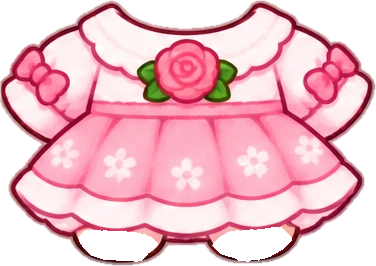
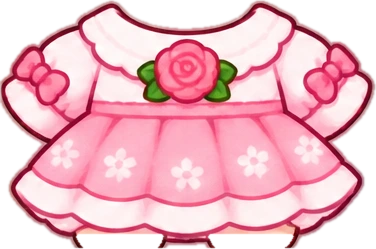
의상 발 제거, 초코칩·코끼리 날개, 방 안 배경 추가
Claude-Session: https://claude.ai/code/session_01R3m8MAFkhgnU4D5f6BKp5W

diff --git a/index.html b/index.html
@@ -177,9 +177,13 @@ button.prow{cursor:pointer}
 #stageText.sick{color:#C9402F}
 .scene{touch-action:none}
 .deco{transition:opacity .6s}
-.walking .deco,.hospital .deco,.schooling .deco{opacity:0}
-#hosp,#walkG,#school{opacity:0; transition:opacity .7s; pointer-events:none}
+.walking .deco,.hospital .deco,.schooling .deco,.inroom .deco{opacity:0}
+#hosp,#walkG,#school,#room{opacity:0; transition:opacity .7s; pointer-events:none}
 .hospital #hosp,.walking #walkG,.schooling #school{opacity:1}
+.inroom #room{opacity:1}
+#room .roomnight{opacity:0} .scene.night #room .roomnight{opacity:1} .scene.night #room .roomwin{opacity:0} .scene.night #room .roomdim{opacity:.28}
+.roomBtn{position:absolute; top:10px; left:10px; z-index:3; width:40px; height:40px; border-radius:50%; border:0; background:rgba(255,255,255,.82); font-size:21px; line-height:40px; padding:0; box-shadow:0 2px 6px rgba(0,0,0,.2); cursor:pointer}
+.scene.editing .roomBtn,.walking .roomBtn,.hospital .roomBtn,.schooling .roomBtn{display:none}
 .actions.five{grid-template-columns:repeat(5,1fr)}
 .actions .act{font-size:14px}
 .walking #strip{animation:scrollx 2.4s linear infinite}
@@ -428,6 +432,25 @@ body{margin:0}
       <g class="treec deco"><circle cx="48" cy="214" r="30"/><circle cx="29" cy="238" r="20"/><circle cx="68" cy="238" r="20"/></g>
       <g class="deco"><circle cx="95" cy="334" r="4.5" fill="#FF9EC4"/><circle cx="95" cy="334" r="1.8" fill="#FFE27A"/><circle cx="318" cy="330" r="4.5" fill="#FFFFFF"/><circle cx="318" cy="330" r="1.8" fill="#FFE27A"/><circle cx="352" cy="344" r="4.5" fill="#FFB3A1"/><circle cx="352" cy="344" r="1.8" fill="#FFE27A"/><circle cx="58" cy="322" r="4.5" fill="#FFFFFF"/><circle cx="58" cy="322" r="1.8" fill="#FFE27A"/><circle cx="140" cy="346" r="4.5" fill="#C9B6FF"/><circle cx="140" cy="346" r="1.8" fill="#FFE27A"/></g>
 
+      <g id="room">
+        <rect x="-600" y="-800" width="1600" height="1090" fill="#FFE9EE"/>
+        <g opacity=".55" fill="#FFD0DC"><circle cx="30" cy="30" r="6"/><circle cx="90" cy="70" r="6"/><circle cx="150" cy="30" r="6"/><circle cx="210" cy="70" r="6"/><circle cx="270" cy="30" r="6"/><circle cx="330" cy="70" r="6"/><circle cx="390" cy="30" r="6"/><circle cx="30" cy="110" r="6"/><circle cx="90" cy="150" r="6"/><circle cx="150" cy="110" r="6"/><circle cx="210" cy="150" r="6"/><circle cx="270" cy="110" r="6"/><circle cx="330" cy="150" r="6"/><circle cx="390" cy="110" r="6"/><circle cx="30" cy="190" r="6"/><circle cx="150" cy="190" r="6"/><circle cx="270" cy="190" r="6"/><circle cx="390" cy="190" r="6"/><circle cx="90" cy="230" r="6"/><circle cx="210" cy="230" r="6"/><circle cx="330" cy="230" r="6"/></g>
+        <rect x="-600" y="262" width="1600" height="700" fill="#E6BE8A"/>
+        <g stroke="#CFA06A" stroke-width="2"><path d="M-600 262H1000"/><path d="M-20 262V360M80 262V360M180 262V360M280 262V360M380 262V360" opacity=".5"/><path d="M-600 300H1000M-600 336H1000" opacity=".5"/></g>
+        <rect x="-600" y="254" width="1600" height="10" fill="#fff" stroke="#F2CFD8" stroke-width="2"/>
+        <rect x="236" y="62" width="104" height="96" rx="8" fill="#BFE6F7" stroke="#fff" stroke-width="8"/>
+        <g class="roomwin"><rect x="240" y="66" width="96" height="88" rx="5" fill="#BFE6F7"/><ellipse cx="270" cy="92" rx="16" ry="7" fill="#fff"/><ellipse cx="280" cy="88" rx="10" ry="6" fill="#fff"/><circle cx="318" cy="84" r="9" fill="#FFD166"/></g>
+        <g class="roomnight"><rect x="240" y="66" width="96" height="88" rx="5" fill="#2A3570"/><circle cx="312" cy="88" r="11" fill="#FFF1B8"/><circle cx="262" cy="84" r="1.8" fill="#FFF6C9"/><circle cx="284" cy="120" r="1.6" fill="#FFF6C9"/><circle cx="256" cy="136" r="1.6" fill="#FFF6C9"/></g>
+        <path d="M288 62V158M236 110H340" stroke="#fff" stroke-width="5"/>
+        <path d="M222 56H234V164H222Q214 110 222 56ZM354 56H342V164H354Q362 110 354 56Z" fill="#FFB3C7" opacity=".9"/>
+        <rect x="42" y="64" width="62" height="48" rx="4" fill="#fff" stroke="#C99A5E" stroke-width="5"/><circle cx="62" cy="82" r="7" fill="#FFD166"/><path d="M48 106L68 88L82 100L92 92L100 106Z" fill="#7FCB6F"/>
+        <rect x="120" y="76" width="44" height="34" rx="4" fill="#fff" stroke="#C99A5E" stroke-width="5"/><path d="M142 104C128 94 130 84 137 84C140 84 142 86 142 88C142 86 144 84 147 84C154 84 156 94 142 104Z" fill="#FF8FB1"/>
+        <rect x="30" y="196" width="130" height="8" rx="3" fill="#C99A5E"/>
+        <rect x="40" y="170" width="18" height="26" rx="3" fill="#9ED4F5"/><rect x="62" y="176" width="16" height="20" rx="3" fill="#FFB3C1"/><rect x="82" y="168" width="16" height="28" rx="3" fill="#BDE8A6"/><circle cx="130" cy="184" r="12" fill="#C9B6FF"/><circle cx="127" cy="181" r="3" fill="#fff" opacity=".6"/>
+        <rect x="352" y="214" width="34" height="40" rx="6" fill="#E8896B" stroke="#B8604A" stroke-width="3"/><g fill="#6FBF73" stroke="#3E8E50" stroke-width="2.5"><ellipse cx="360" cy="196" rx="8" ry="18" transform="rotate(-25 360 196)"/><ellipse cx="378" cy="194" rx="8" ry="18" transform="rotate(25 378 194)"/><ellipse cx="369" cy="190" rx="7" ry="20"/></g>
+        <ellipse cx="200" cy="312" rx="150" ry="24" fill="#FF9FB9" stroke="#fff" stroke-width="4"/><ellipse cx="200" cy="312" rx="106" ry="15" fill="none" stroke="#fff" stroke-width="3" stroke-dasharray="6 6"/>
+        <rect class="roomdim" x="-600" y="-800" width="1600" height="1100" fill="#141B4A" opacity="0"/>
+      </g>
       <g id="walkG"><g id="strip"><use href="#stripT"/><use href="#stripT" x="400"/></g></g>
       <g id="school">
         <rect x="-600" y="-800" width="1600" height="1090" fill="#DDF1FF"/>
@@ -492,6 +515,7 @@ body{margin:0}
       <rect class="dim" x="-600" y="-800" width="1600" height="1800"/>
       <g id="fx"></g>
     </svg>
+    <button class="roomBtn" id="roomBtn" aria-label="배경 바꾸기">🏠</button>
     <div class="bubble" id="bubble" role="status" aria-live="polite"></div>
   </section>
 
@@ -664,7 +688,7 @@ var FOODS = {
 var SHOP = [];
 /* 이미지로 만든 아이템: {id,name,slot,tier,cost,file:'assets/items/id.webp',box:[x,y,w,h]} 를 여기에 추가하면
    뽑기·꾸미기·도감에 자동으로 들어가요. box는 캔버스(640x520) 좌표, vb는 box 와 같아요. */
-var IMG_ITEMS = [{"id": "ribbon", "name": "빨간 리본", "slot": "side", "tier": 0, "cost": 8, "file": "assets/items/ribbon.webp", "box": [374.5, 56.1, 125, 71.7]}, {"id": "flower", "name": "꽃 핀", "slot": "side", "tier": 0, "cost": 12, "file": "assets/items/flower.webp", "box": [152.5, 43.1, 105, 97.7]}, {"id": "sprout", "name": "새싹 핀", "slot": "side", "tier": 0, "cost": 8, "file": "assets/items/sprout.webp", "box": [382.0, 53.3, 110, 77.5]}, {"id": "heart", "name": "하트 핀", "slot": "side", "tier": 0, "cost": 10, "file": "assets/items/heart.webp", "box": [383.0, 46.8, 108, 90.4]}, {"id": "star", "name": "별 핀", "slot": "side", "tier": 0, "cost": 10, "file": "assets/items/star.webp", "box": [383.0, 37.5, 108, 108.9]}, {"id": "cloudbow", "name": "구름 무지개 핀", "slot": "side", "tier": 0, "cost": 12, "file": "assets/items/cloudbow.webp", "box": [377.0, 51.8, 120, 80.5]}, {"id": "cherry", "name": "체리 핀", "slot": "side", "tier": 0, "cost": 12, "file": "assets/items/cherry.webp", "box": [387.0, 42.4, 100, 99.2]}, {"id": "glasses", "name": "동그란 안경", "slot": "face", "tier": 1, "cost": 15, "file": "assets/items/glasses.webp", "box": [143.5, 166.3, 355, 147.4]}, {"id": "scarf", "name": "따뜻한 목도리", "slot": "neck", "tier": 1, "cost": 20, "file": "assets/items/scarf.webp", "box": [179.5, 318.9, 285, 178.3]}, {"id": "hat", "name": "파티 모자", "slot": "head", "tier": 1, "cost": 25, "file": "assets/items/hat.webp", "box": [250.0, -80.1, 140, 168.1]}, {"id": "wingpin", "name": "날개 핀", "slot": "side", "tier": 1, "cost": 18, "file": "assets/items/wingpin.webp", "box": [379.5, 46.4, 115, 91.1]}, {"id": "purplebow", "name": "보라 리본 핀", "slot": "side", "tier": 1, "cost": 15, "file": "assets/items/purplebow.webp", "box": [377.0, 50.1, 120, 83.8]}, {"id": "lacebow", "name": "레이스 리본 핀", "slot": "side", "tier": 1, "cost": 18, "file": "assets/items/lacebow.webp", "box": [379.5, 38.0, 115, 108.1]}, {"id": "snow", "name": "눈꽃 핀", "slot": "side", "tier": 1, "cost": 20, "file": "assets/items/snow.webp", "box": [387.0, 48.3, 100, 87.4]}, {"id": "moon", "name": "달별 핀", "slot": "side", "tier": 1, "cost": 22, "file": "assets/items/moon.webp", "box": [382.0, 39.7, 110, 104.6]}, {"id": "crown", "name": "반짝 왕관", "slot": "head", "tier": 2, "cost": 0, "file": "assets/items/crown.webp", "box": [230.0, -37.8, 180, 127.8]}, {"id": "wizard", "name": "별 마법사 모자", "slot": "head", "tier": 2, "cost": 0, "file": "assets/items/wizard.webp", "box": [177.0, -77.3, 290, 189.3]}, {"id": "starwing", "name": "별무지개 날개 머리띠", "slot": "head", "tier": 2, "cost": 0, "file": "assets/items/starwing.webp", "box": [165.0, 28.9, 310, 134.2]}, {"id": "nightcap", "name": "꿀잠 모자", "slot": "head", "tier": 2, "cost": 0, "file": "assets/items/nightcap.webp", "box": [192.0, 9.8, 260, 180.4]}, {"id": "maid", "name": "프릴 리본 머리띠", "slot": "head", "tier": 2, "cost": 0, "file": "assets/items/maid.webp", "box": [190.0, 19.6, 260, 156.9]}, {"id": "angel", "name": "천사 날개 후광", "slot": "head", "tier": 3, "cost": 0, "file": "assets/items/angel.webp", "box": [150.0, 6.4, 340, 177.1]}, {"id": "bat", "name": "박쥐 날개", "slot": "head", "tier": 3, "cost": 0, "file": "assets/items/bat.webp", "box": [165.0, 48.5, 310, 127.1]}, {"id": "wreath", "name": "꽃 화관", "slot": "head", "tier": 3, "cost": 0, "file": "assets/items/wreath.webp", "box": [180.0, 19.0, 280, 162.0]}, {"id": "tiara", "name": "날개 티아라", "slot": "head", "tier": 3, "cost": 0, "file": "assets/items/tiara.webp", "box": [195.0, 18.6, 250, 146.9]}, {"id": "galaxy", "name": "은하수 머리띠", "slot": "head", "tier": 3, "cost": 0, "file": "assets/items/galaxy.webp", "box": [160.0, 23.2, 320, 161.5]}, {"id": "broom", "name": "빗자루", "slot": "hand", "tier": 0, "cost": 14, "file": "assets/items/broom.webp", "box": [401.6, 283, 100.8, 230]}, {"id": "drink", "name": "음료수", "slot": "hand", "tier": 0, "cost": 10, "file": "assets/items/drink.webp", "box": [136.2, 332, 97.6, 162]}, {"id": "schoolbag", "name": "학교가방", "slot": "hand", "tier": 0, "cost": 16, "file": "assets/items/schoolbag.webp", "box": [383.0, 392, 133.0, 140]}, {"id": "slime", "name": "슬라임", "slot": "hand", "tier": 1, "cost": 18, "file": "assets/items/slime.webp", "box": [108.0, 331.1, 154, 116.8]}, {"id": "gameboy", "name": "휴대용 게임기", "slot": "hand", "tier": 1, "cost": 24, "file": "assets/items/gameboy.webp", "box": [222.0, 359.4, 195, 109.1]}, {"id": "bananadoll", "name": "바나나 애착인형", "slot": "hand", "tier": 2, "cost": 0, "file": "assets/items/bananadoll.webp", "box": [105.0, 303.6, 150, 176.4]}, {"id": "elephantdoll", "name": "코끼리 애착인형", "slot": "hand", "tier": 2, "cost": 0, "file": "assets/items/elephantdoll.webp", "box": [385.0, 321.0, 160, 148.7]}, {"id": "tshirt", "name": "줄무늬 티셔츠", "slot": "outfit", "tier": 0, "cost": 14, "file": "assets/items/tshirt.webp", "box": [200.0, 338, 240, 131.0]}, {"id": "overalls", "name": "멜빵바지", "slot": "outfit", "tier": 0, "cost": 16, "file": "assets/items/overalls.webp", "box": [200.0, 338, 240, 177.4]}, {"id": "dress", "name": "분홍 원피스", "slot": "outfit", "tier": 1, "cost": 26, "file": "assets/items/dress.webp", "box": [200.0, 338, 240, 131.7]}, {"id": "hanbok", "name": "한복", "slot": "outfit", "tier": 1, "cost": 30, "file": "assets/items/hanbok.webp", "box": [200.0, 338, 240, 139.9]}, {"id": "uniform", "name": "세일러 교복", "slot": "outfit", "tier": 1, "cost": 28, "file": "assets/items/uniform.webp", "box": [200.0, 338, 240, 146.9]}, {"id": "cape", "name": "별빛 마법 망토", "slot": "outfit", "tier": 2, "cost": 0, "file": "assets/items/cape.webp", "box": [200.0, 375, 240, 138.0]}, {"id": "princess", "name": "공주 드레스", "slot": "outfit", "tier": 2, "cost": 0, "file": "assets/items/princess.webp", "box": [200.0, 338, 240, 157.7]}, {"id": "spacesuit", "name": "우주복", "slot": "outfit", "tier": 3, "cost": 0, "file": "assets/items/spacesuit.webp", "box": [200.0, 338, 240, 126.9]}, {"id": "heartphones", "name": "하트 헤드폰", "slot": "head", "tier": 1, "cost": 22, "file": "assets/items/heartphones.webp", "box": [82, -12, 476, 273.0]}, {"id": "nursehat", "name": "간호사 모자", "slot": "head", "tier": 0, "cost": 14, "file": "assets/items/nursehat.webp", "box": [215, 14, 210, 102.6]}, {"id": "nursedress", "name": "간호사복", "slot": "outfit", "tier": 1, "cost": 28, "file": "assets/items/nursedress.webp", "box": [180.0, 328, 280, 206.6]}, {"id": "pancake", "name": "팬케이크", "slot": "hand", "tier": 1, "cost": 18, "file": "assets/items/pancake.webp", "box": [110, 335, 150, 121.7]}, {"id": "heartall", "name": "하트 멜빵바지", "slot": "outfit", "tier": 0, "cost": 16, "file": "assets/items/heartall.webp", "box": [180.0, 328, 280, 193.7]}, {"id": "pinklolita", "name": "분홍 로리타 원피스", "slot": "outfit", "tier": 1, "cost": 26, "file": "assets/items/pinklolita.webp", "box": [180.0, 328, 280, 197.6]}, {"id": "bearcoat", "name": "곰돌이 코트", "slot": "outfit", "tier": 1, "cost": 28, "file": "assets/items/bearcoat.webp", "box": [180.0, 328, 280, 200.3]}, {"id": "strawberry", "name": "딸기 원피스", "slot": "outfit", "tier": 1, "cost": 28, "file": "assets/items/strawberry.webp", "box": [180.0, 328, 280, 201.5]}, {"id": "sailorblue", "name": "파란 세일러복", "slot": "outfit", "tier": 0, "cost": 18, "file": "assets/items/sailorblue.webp", "box": [180.0, 328, 280, 202.2]}, {"id": "yellowdress", "name": "노랑 꽃무늬 원피스", "slot": "outfit", "tier": 1, "cost": 26, "file": "assets/items/yellowdress.webp", "box": [180.0, 328, 280, 208.3]}, {"id": "roseflower", "name": "장미 원피스", "slot": "outfit", "tier": 1, "cost": 26, "file": "assets/items/roseflower.webp", "box": [180.0, 328, 280, 198.1]}, {"id": "bearoveralls", "name": "곰돌이 멜빵바지", "slot": "outfit", "tier": 0, "cost": 18, "file": "assets/items/bearoveralls.webp", "box": [180.0, 328, 280, 205.0]}, {"id": "starcloak", "name": "별빛 망토", "slot": "outfit", "tier": 2, "cost": 0, "file": "assets/items/starcloak.webp", "box": [180.0, 328, 280, 213.8]}, {"id": "snowcoat", "name": "눈꽃 코트", "slot": "outfit", "tier": 2, "cost": 0, "file": "assets/items/snowcoat.webp", "box": [180.0, 328, 280, 221.9]}, {"id": "prince", "name": "왕자님 정복", "slot": "outfit", "tier": 2, "cost": 0, "file": "assets/items/prince.webp", "box": [180.0, 328, 280, 213.7]}, {"id": "batcloak", "name": "박쥐 망토", "slot": "outfit", "tier": 3, "cost": 0, "file": "assets/items/batcloak.webp", "box": [180.0, 328, 280, 210.9]}];
+var IMG_ITEMS = [{"id": "ribbon", "name": "빨간 리본", "slot": "side", "tier": 0, "cost": 8, "file": "assets/items/ribbon.webp", "box": [374.5, 56.1, 125, 71.7]}, {"id": "flower", "name": "꽃 핀", "slot": "side", "tier": 0, "cost": 12, "file": "assets/items/flower.webp", "box": [152.5, 43.1, 105, 97.7]}, {"id": "sprout", "name": "새싹 핀", "slot": "side", "tier": 0, "cost": 8, "file": "assets/items/sprout.webp", "box": [382.0, 53.3, 110, 77.5]}, {"id": "heart", "name": "하트 핀", "slot": "side", "tier": 0, "cost": 10, "file": "assets/items/heart.webp", "box": [383.0, 46.8, 108, 90.4]}, {"id": "star", "name": "별 핀", "slot": "side", "tier": 0, "cost": 10, "file": "assets/items/star.webp", "box": [383.0, 37.5, 108, 108.9]}, {"id": "cloudbow", "name": "구름 무지개 핀", "slot": "side", "tier": 0, "cost": 12, "file": "assets/items/cloudbow.webp", "box": [377.0, 51.8, 120, 80.5]}, {"id": "cherry", "name": "체리 핀", "slot": "side", "tier": 0, "cost": 12, "file": "assets/items/cherry.webp", "box": [387.0, 42.4, 100, 99.2]}, {"id": "glasses", "name": "동그란 안경", "slot": "face", "tier": 1, "cost": 15, "file": "assets/items/glasses.webp", "box": [143.5, 166.3, 355, 147.4]}, {"id": "scarf", "name": "따뜻한 목도리", "slot": "neck", "tier": 1, "cost": 20, "file": "assets/items/scarf.webp", "box": [179.5, 318.9, 285, 178.3]}, {"id": "hat", "name": "파티 모자", "slot": "head", "tier": 1, "cost": 25, "file": "assets/items/hat.webp", "box": [250.0, -80.1, 140, 168.1]}, {"id": "wingpin", "name": "날개 핀", "slot": "side", "tier": 1, "cost": 18, "file": "assets/items/wingpin.webp", "box": [379.5, 46.4, 115, 91.1]}, {"id": "purplebow", "name": "보라 리본 핀", "slot": "side", "tier": 1, "cost": 15, "file": "assets/items/purplebow.webp", "box": [377.0, 50.1, 120, 83.8]}, {"id": "lacebow", "name": "레이스 리본 핀", "slot": "side", "tier": 1, "cost": 18, "file": "assets/items/lacebow.webp", "box": [379.5, 38.0, 115, 108.1]}, {"id": "snow", "name": "눈꽃 핀", "slot": "side", "tier": 1, "cost": 20, "file": "assets/items/snow.webp", "box": [387.0, 48.3, 100, 87.4]}, {"id": "moon", "name": "달별 핀", "slot": "side", "tier": 1, "cost": 22, "file": "assets/items/moon.webp", "box": [382.0, 39.7, 110, 104.6]}, {"id": "crown", "name": "반짝 왕관", "slot": "head", "tier": 2, "cost": 0, "file": "assets/items/crown.webp", "box": [230.0, -37.8, 180, 127.8]}, {"id": "wizard", "name": "별 마법사 모자", "slot": "head", "tier": 2, "cost": 0, "file": "assets/items/wizard.webp", "box": [177.0, -77.3, 290, 189.3]}, {"id": "starwing", "name": "별무지개 날개 머리띠", "slot": "head", "tier": 2, "cost": 0, "file": "assets/items/starwing.webp", "box": [165.0, 28.9, 310, 134.2]}, {"id": "nightcap", "name": "꿀잠 모자", "slot": "head", "tier": 2, "cost": 0, "file": "assets/items/nightcap.webp", "box": [192.0, 9.8, 260, 180.4]}, {"id": "maid", "name": "프릴 리본 머리띠", "slot": "head", "tier": 2, "cost": 0, "file": "assets/items/maid.webp", "box": [190.0, 19.6, 260, 156.9]}, {"id": "angel", "name": "천사 날개 후광", "slot": "head", "tier": 3, "cost": 0, "file": "assets/items/angel.webp", "box": [150.0, 6.4, 340, 177.1]}, {"id": "bat", "name": "박쥐 날개", "slot": "head", "tier": 3, "cost": 0, "file": "assets/items/bat.webp", "box": [165.0, 48.5, 310, 127.1]}, {"id": "wreath", "name": "꽃 화관", "slot": "head", "tier": 3, "cost": 0, "file": "assets/items/wreath.webp", "box": [180.0, 19.0, 280, 162.0]}, {"id": "tiara", "name": "날개 티아라", "slot": "head", "tier": 3, "cost": 0, "file": "assets/items/tiara.webp", "box": [195.0, 18.6, 250, 146.9]}, {"id": "galaxy", "name": "은하수 머리띠", "slot": "head", "tier": 3, "cost": 0, "file": "assets/items/galaxy.webp", "box": [160.0, 23.2, 320, 161.5]}, {"id": "broom", "name": "빗자루", "slot": "hand", "tier": 0, "cost": 14, "file": "assets/items/broom.webp", "box": [401.6, 283, 100.8, 230]}, {"id": "drink", "name": "음료수", "slot": "hand", "tier": 0, "cost": 10, "file": "assets/items/drink.webp", "box": [136.2, 332, 97.6, 162]}, {"id": "schoolbag", "name": "학교가방", "slot": "hand", "tier": 0, "cost": 16, "file": "assets/items/schoolbag.webp", "box": [383.0, 392, 133.0, 140]}, {"id": "slime", "name": "슬라임", "slot": "hand", "tier": 1, "cost": 18, "file": "assets/items/slime.webp", "box": [108.0, 331.1, 154, 116.8]}, {"id": "gameboy", "name": "휴대용 게임기", "slot": "hand", "tier": 1, "cost": 24, "file": "assets/items/gameboy.webp", "box": [222.0, 359.4, 195, 109.1]}, {"id": "bananadoll", "name": "바나나 애착인형", "slot": "hand", "tier": 2, "cost": 0, "file": "assets/items/bananadoll.webp", "box": [105.0, 303.6, 150, 176.4]}, {"id": "elephantdoll", "name": "코끼리 애착인형", "slot": "hand", "tier": 2, "cost": 0, "file": "assets/items/elephantdoll.webp", "box": [385.0, 321.0, 160, 148.7]}, {"id": "tshirt", "name": "줄무늬 티셔츠", "slot": "outfit", "tier": 0, "cost": 14, "file": "assets/items/tshirt.webp", "box": [200.0, 338, 240, 131.0]}, {"id": "overalls", "name": "멜빵바지", "slot": "outfit", "tier": 0, "cost": 16, "file": "assets/items/overalls.webp", "box": [200.0, 338, 240, 177.4]}, {"id": "dress", "name": "분홍 원피스", "slot": "outfit", "tier": 1, "cost": 26, "file": "assets/items/dress.webp", "box": [200.0, 338, 240, 131.7]}, {"id": "hanbok", "name": "한복", "slot": "outfit", "tier": 1, "cost": 30, "file": "assets/items/hanbok.webp", "box": [200.0, 338, 240, 139.9]}, {"id": "uniform", "name": "세일러 교복", "slot": "outfit", "tier": 1, "cost": 28, "file": "assets/items/uniform.webp", "box": [200.0, 338, 240, 146.9]}, {"id": "cape", "name": "별빛 마법 망토", "slot": "outfit", "tier": 2, "cost": 0, "file": "assets/items/cape.webp", "box": [200.0, 375, 240, 138.0]}, {"id": "princess", "name": "공주 드레스", "slot": "outfit", "tier": 2, "cost": 0, "file": "assets/items/princess.webp", "box": [200.0, 338, 240, 157.7]}, {"id": "spacesuit", "name": "우주복", "slot": "outfit", "tier": 3, "cost": 0, "file": "assets/items/spacesuit.webp", "box": [200.0, 338, 240, 126.9]}, {"id": "heartphones", "name": "하트 헤드폰", "slot": "head", "tier": 1, "cost": 22, "file": "assets/items/heartphones.webp", "box": [82, -12, 476, 273.0]}, {"id": "nursehat", "name": "간호사 모자", "slot": "head", "tier": 0, "cost": 14, "file": "assets/items/nursehat.webp", "box": [215, 14, 210, 102.6]}, {"id": "nursedress", "name": "간호사복", "slot": "outfit", "tier": 1, "cost": 28, "file": "assets/items/nursedress.webp", "box": [180.0, 328, 280, 206.6]}, {"id": "pancake", "name": "팬케이크", "slot": "hand", "tier": 1, "cost": 18, "file": "assets/items/pancake.webp", "box": [110, 335, 150, 121.7]}, {"id": "heartall", "name": "하트 멜빵바지", "slot": "outfit", "tier": 0, "cost": 16, "file": "assets/items/heartall.webp", "box": [180.0, 328, 280, 171.0]}, {"id": "pinklolita", "name": "분홍 로리타 원피스", "slot": "outfit", "tier": 1, "cost": 26, "file": "assets/items/pinklolita.webp", "box": [180.0, 328, 280, 178.5]}, {"id": "bearcoat", "name": "곰돌이 코트", "slot": "outfit", "tier": 1, "cost": 28, "file": "assets/items/bearcoat.webp", "box": [180.0, 328, 280, 176.5]}, {"id": "strawberry", "name": "딸기 원피스", "slot": "outfit", "tier": 1, "cost": 28, "file": "assets/items/strawberry.webp", "box": [180.0, 328, 280, 173.8]}, {"id": "sailorblue", "name": "파란 세일러복", "slot": "outfit", "tier": 0, "cost": 18, "file": "assets/items/sailorblue.webp", "box": [180.0, 328, 280, 178.5]}, {"id": "yellowdress", "name": "노랑 꽃무늬 원피스", "slot": "outfit", "tier": 1, "cost": 26, "file": "assets/items/yellowdress.webp", "box": [180.0, 328, 280, 193.6]}, {"id": "roseflower", "name": "장미 원피스", "slot": "outfit", "tier": 1, "cost": 26, "file": "assets/items/roseflower.webp", "box": [180.0, 328, 280, 185.4]}, {"id": "bearoveralls", "name": "곰돌이 멜빵바지", "slot": "outfit", "tier": 0, "cost": 18, "file": "assets/items/bearoveralls.webp", "box": [180.0, 328, 280, 179.8]}, {"id": "starcloak", "name": "별빛 망토", "slot": "outfit", "tier": 2, "cost": 0, "file": "assets/items/starcloak.webp", "box": [180.0, 328, 280, 189.7]}, {"id": "snowcoat", "name": "눈꽃 코트", "slot": "outfit", "tier": 2, "cost": 0, "file": "assets/items/snowcoat.webp", "box": [180.0, 328, 280, 201.2]}, {"id": "prince", "name": "왕자님 정복", "slot": "outfit", "tier": 2, "cost": 0, "file": "assets/items/prince.webp", "box": [180.0, 328, 280, 187.9]}, {"id": "batcloak", "name": "박쥐 망토", "slot": "outfit", "tier": 3, "cost": 0, "file": "assets/items/batcloak.webp", "box": [180.0, 328, 280, 189.8]}, {"id": "chocochip", "name": "초코칩", "slot": "hand", "tier": 0, "cost": 12, "file": "assets/items/chocochip.webp", "box": [130, 340, 100, 101.5]}, {"id": "elephantwings", "name": "코끼리 날개", "slot": "back", "tier": 1, "cost": 32, "file": "assets/items/elephantwings.webp", "box": [10, 235, 620, 200.8]}];
 var TIERS = [
   {name:'보통',     w:60, dup:4,  buy:true},
   {name:'희귀',     w:28, dup:6,  buy:true},
@@ -742,7 +766,7 @@ function mk(tag, attrs, parent){
 }
 var ACC_ORDER=[];
 (function(){
-  var Z={outfit:-1,neck:0,hand:.5,face:1,side:2,head:3}, defs=$('itemDefs'), layer=$('accLayer');
+  var Z={back:-2,outfit:-1,neck:0,hand:.5,face:1,side:2,head:3}, defs=$('itemDefs'), layer=$('accLayer');
   IMG_ITEMS.forEach(function(it){ it.vb=it.box.join(' '); SHOP.push(it); });
   IMG_ITEMS.slice().sort(function(a,b){ return Z[a.slot]-Z[b.slot]; }).forEach(function(it){
     var b=it.box; ACC_ORDER.push(it.id);
@@ -1071,11 +1095,13 @@ function render(){
   ele.setAttribute('data-pose', m);
   applyAcc(m);
   scene.classList.toggle('night', isNight());
+  scene.classList.toggle('inroom', !!S.room); $('roomBtn').textContent=S.room?'🌳':'🏠';
   scene.classList.toggle('sleeping', S.sleeping);
   sleepLabel.textContent = S.sleeping ? '깨우기' : '자기';
   $('soundUse').setAttribute('href', (S.bgmOn||S.sfxOn) ? '#i-sound' : '#i-mute');
 }
 function commit(){ render(); save(); }
+$('roomBtn').addEventListener('click',function(){ S.room=!S.room; sfx.up&&sfx.up(); commit(); say(S.room?'방 안이 포근해요!':'마당이 시원해요!',2200); });
 function popCoin(){
   $('coinChip').animate([{transform:'scale(1)'},{transform:'scale(1.25)'},{transform:'scale(1)'}],{duration:320});
 }
@@ -1461,7 +1487,7 @@ function graduate(){
   if(level()<MAXLV) return;
   S.grad=S.grad||Date.now(); S.sleeping=false; S.sick=false;
   S.herd.push(packEle());
-  var keep={coins:S.coins,owned:S.owned,sfxOn:S.sfxOn,sfxVol:S.sfxVol,bgmOn:S.bgmOn,bgmVol:S.bgmVol,bgmTrack:S.bgmTrack,herd:S.herd,phone:S.phone};
+  var keep={room:S.room,coins:S.coins,owned:S.owned,sfxOn:S.sfxOn,sfxVol:S.sfxVol,bgmOn:S.bgmOn,bgmVol:S.bgmVol,bgmTrack:S.bgmTrack,herd:S.herd,phone:S.phone};
   var f=fresh(); Object.keys(f).forEach(function(k){ S[k]=f[k]; });
   Object.keys(keep).forEach(function(k){ S[k]=keep[k]; });
   S.name=''; S.t=Date.now();

diff --git a/README.md b/README.md
@@ -60,3 +60,8 @@
 - 아이템 회전은 5도 단위 (버튼을 길게 누르면 계속 돌아가요)
 - 꾸미기 아이템은 격자로 보이고, 칸을 누르면 바로 입기/벗기 (안 산 아이템은 한 번 누르면 선택, 한 번 더 누르면 구매)
 - 코끼리를 콕 누르면 코인 1개 (0.7초마다 한 번)
+
+## 추가 업데이트
+- 새 의상 12종의 다리(발) 부분 제거
+- 꾸미기 아이템: 초코칩(손, 쿠키), 코끼리 날개(등, `back` 슬롯)
+- 방 안 배경: 화면 왼쪽 위 🏠/🌳 버튼으로 마당 ↔ 방 전환 (밤에는 창밖이 밤하늘로 바뀜)
